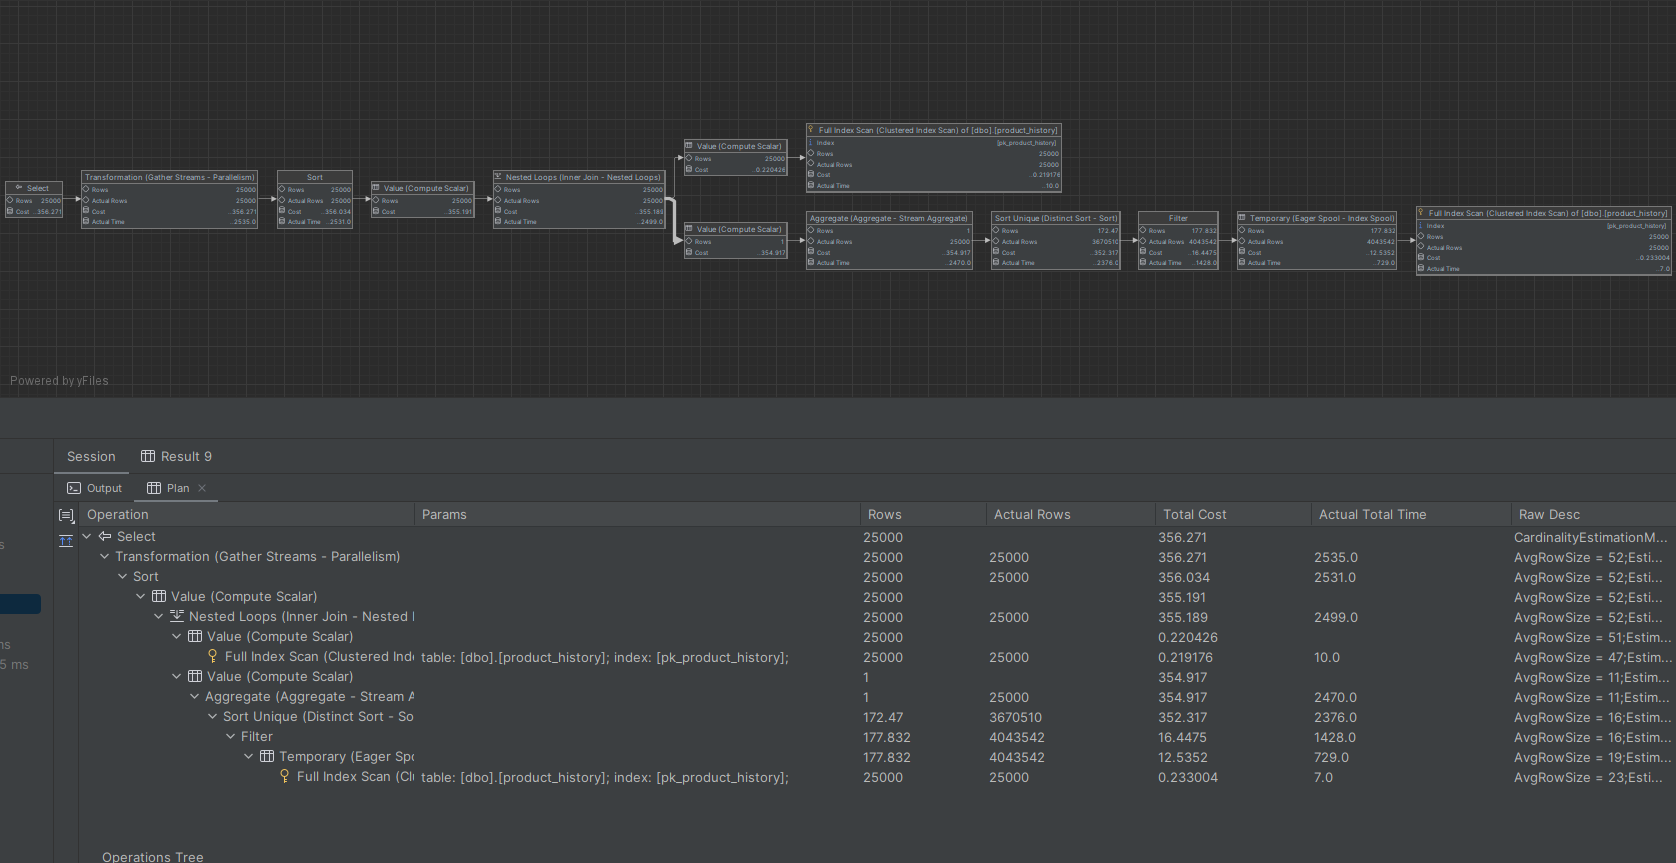
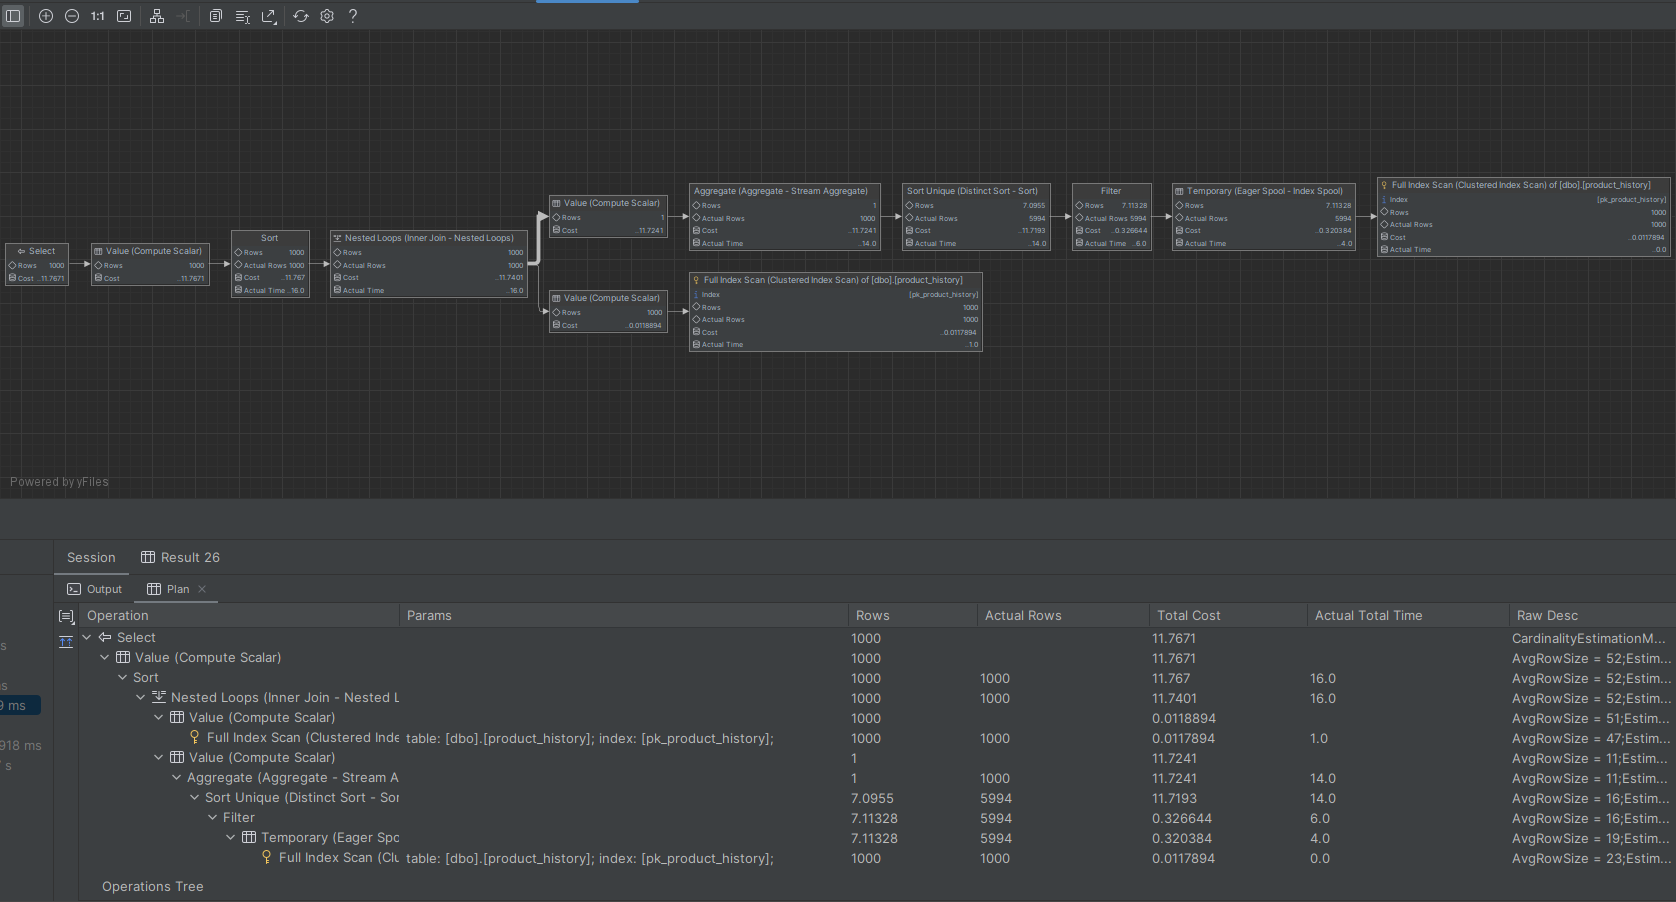
Fix ex9

diff --git a/lab1-2/lab-1-2-window-function.md b/lab1-2/lab-1-2-window-function.md
@@ -941,7 +941,7 @@ Spróbuj uzyskać ten sam wynik bez użycia funkcji okna, porównaj wyniki, czas
 
 ### Wyniki
 
-#### Zapytania
+### Zapytania
 
 ```sql
 --- PostgreSQL
@@ -1012,47 +1012,48 @@ ORDER BY
     Year, ProductID, PriceRank;
 ```
 
-Tutaj również użyto tabeli `product_history` z liczbą rekordów równą 25000.
+W tym zadaniu również wykorzystano tabelę `product_history` z liczbą rekordów równą 2500.
 
-#### Czasy
+### Czasy
 
-**PostgreSQL**
+#### PostgreSQL
 | Zapytanie | bez window function  | z window function |
 | ---       | ---                  | ---               |
-| Czas      | 1m 35s               | 428ms             |
+| Czas      | 49s                  | 195ms             |
 
-**SQL Server**
+#### SQL Server
 | Zapytanie | bez window function  | z window function |
 | ---       | ---                  | ---               |
-| Czas      | 1s 816ms             | 230ms             |
+| Czas      | 152ms                | 71ms              |
 
-**SQLite**
+#### SQLite
 | Zapytanie | bez window function  | z window function |
 | ---       | ---                  | ---               |
-| Czas      | 5m 56s               | 252ms             |
+| Czas      | 448ms                | 66ms              |
 
-Wyniki testów pokazują znaczącą różnicę w czasie wykonania zapytań pomiędzy użyciem funkcji okna a alternatywnym podejściem bez ich wykorzystania. W każdym systemie zarządzania bazą danych (SZBD), użycie funkcji okna znacznie przyspiesza wykonanie zapytania w porównaniu do alternatywnego podejścia bez ich wykorzystania. W szczególności w PostgreSQL i SQL Server różnica jest ogromna, podczas gdy w SQLite różnica również jest znacząca, ale mniej wyraźna w porównaniu z pozostałymi dwoma systemami.
+Wyniki testów pokazują znaczącą różnicę w czasie wykonania zapytań pomiędzy użyciem funkcji okna a alternatywnym podejściem bez ich wykorzystania. W każdym systemie zarządzania bazą danych (SZBD), użycie funkcji okna znacznie przyspiesza wykonanie zapytania w porównaniu do alternatywnego podejścia bez ich wykorzystania. W szczególności w PostgreSQL różnica jest ogromna, podczas gdy w SQLite i SQL Server różnica również jest, ale mniej wyraźna w porównaniu z pozostałymi dwoma systemami.
 
-#### Plany wykonania
+### Plany wykonania
 
-**PostgreSQL**
-- Bez window function
-  ![alt text](./_img/zad9_1.png)
-  Mimo długiego czasu oczekiwania nie udało się uzyskać wyniku.
+#### PostgreSQL - bez window function
+![alt text](./_img/zad9_1.png)
 
-- Z window function
-  ![alt text](./_img/zad9_2.png)
+#### PostgreSQL - z window function
+![alt text](./_img/zad9_2.png)
 
-**SQL Server**
-- Bez window function
-  ![alt text](./_img/zad9_3.png)
+Koszt w przypadku wykorzystującym funkcje okna jest znacznie niższy.
 
-- Z window function
-  ![alt text](./_img/zad9_4.png)
+#### SQL Server - bez window function
+![alt text](./_img/zad9_3.png)
 
-Widzimy,że koszt jest najniższy podczas wykorzystania funkcji okna.
+#### SQL Server - z window function
+![alt text](./_img/zad9_4.png)
 
-**SQLite**
+Koszt w przypadku wykorzystującym funkcje okna jest znacznie niższy.
+
+Plany wykonań dla obu serwerów bazodanowych są proste i podobne do siebie.
+
+#### SQLite
 Dla tego serwera bazodanowego DataGrip nie pozwala zobaczyć analizy zapytań.
 
 ---
